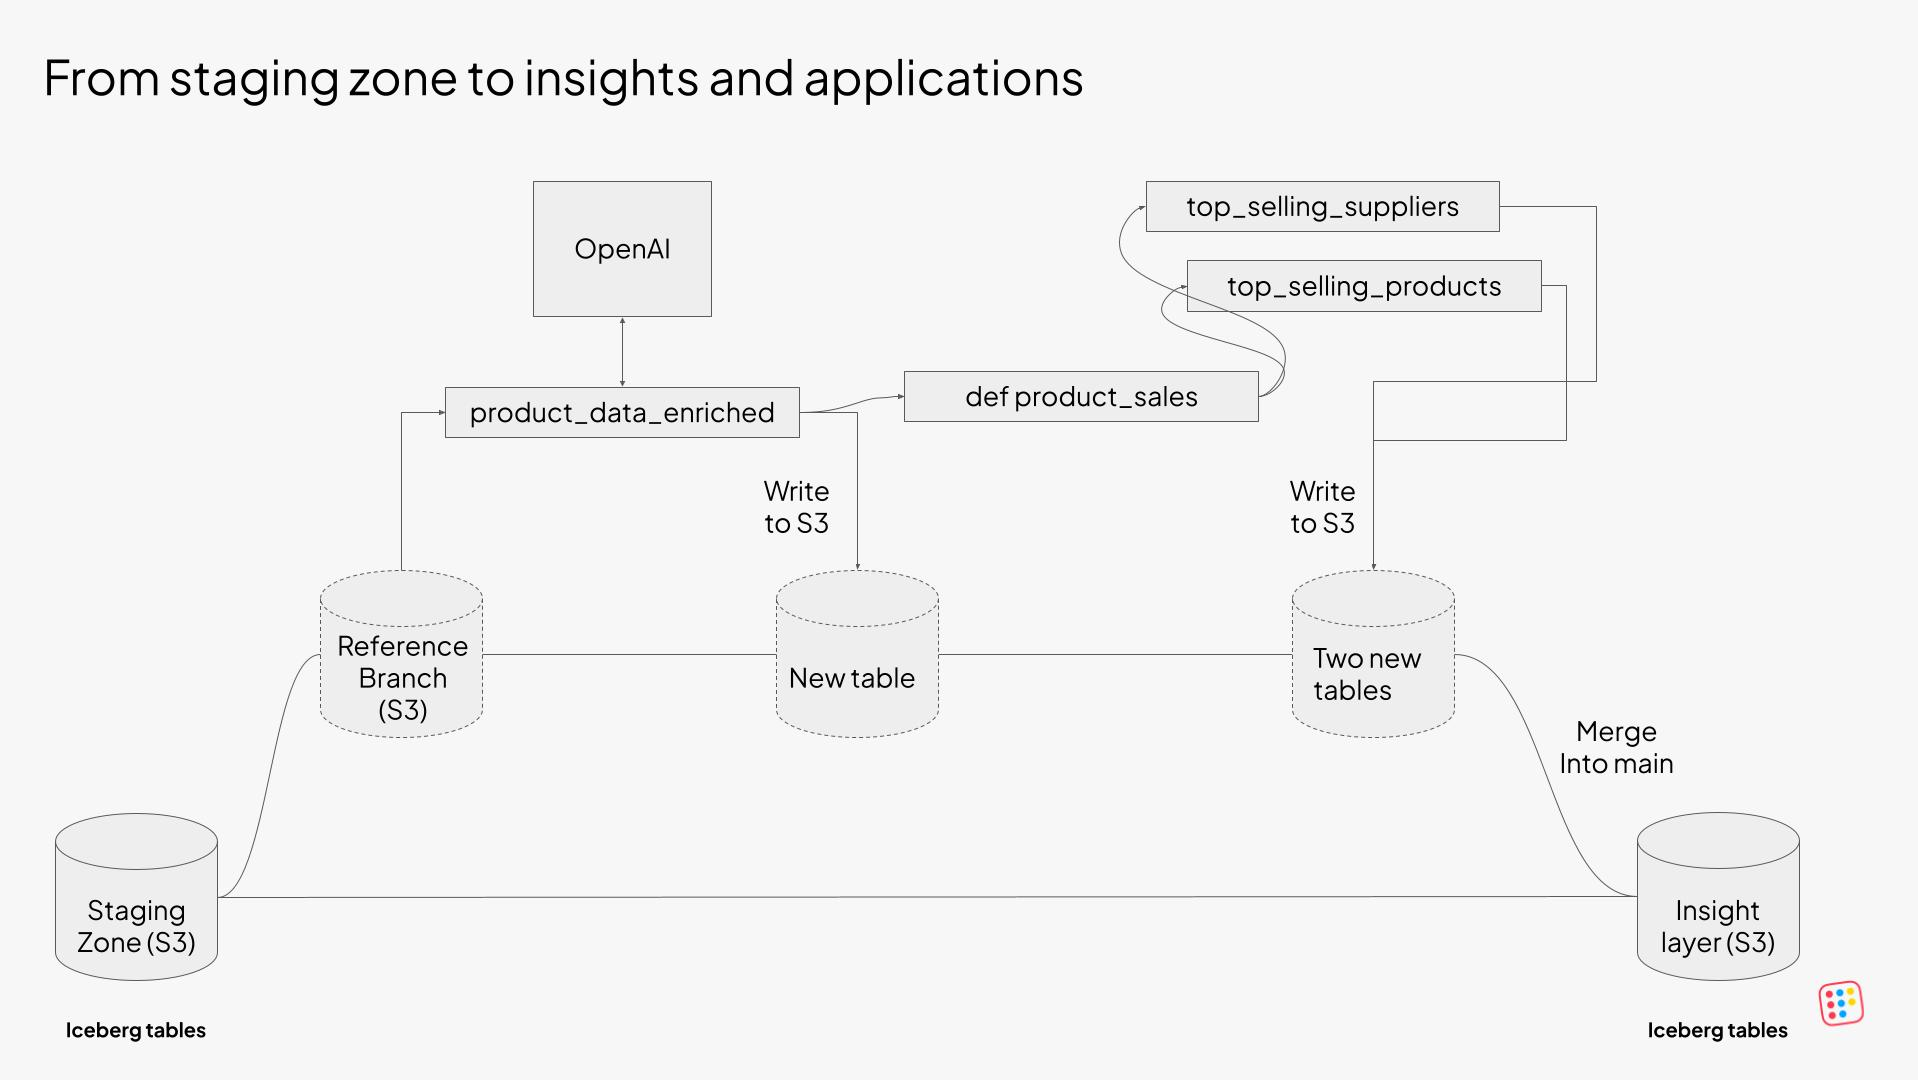
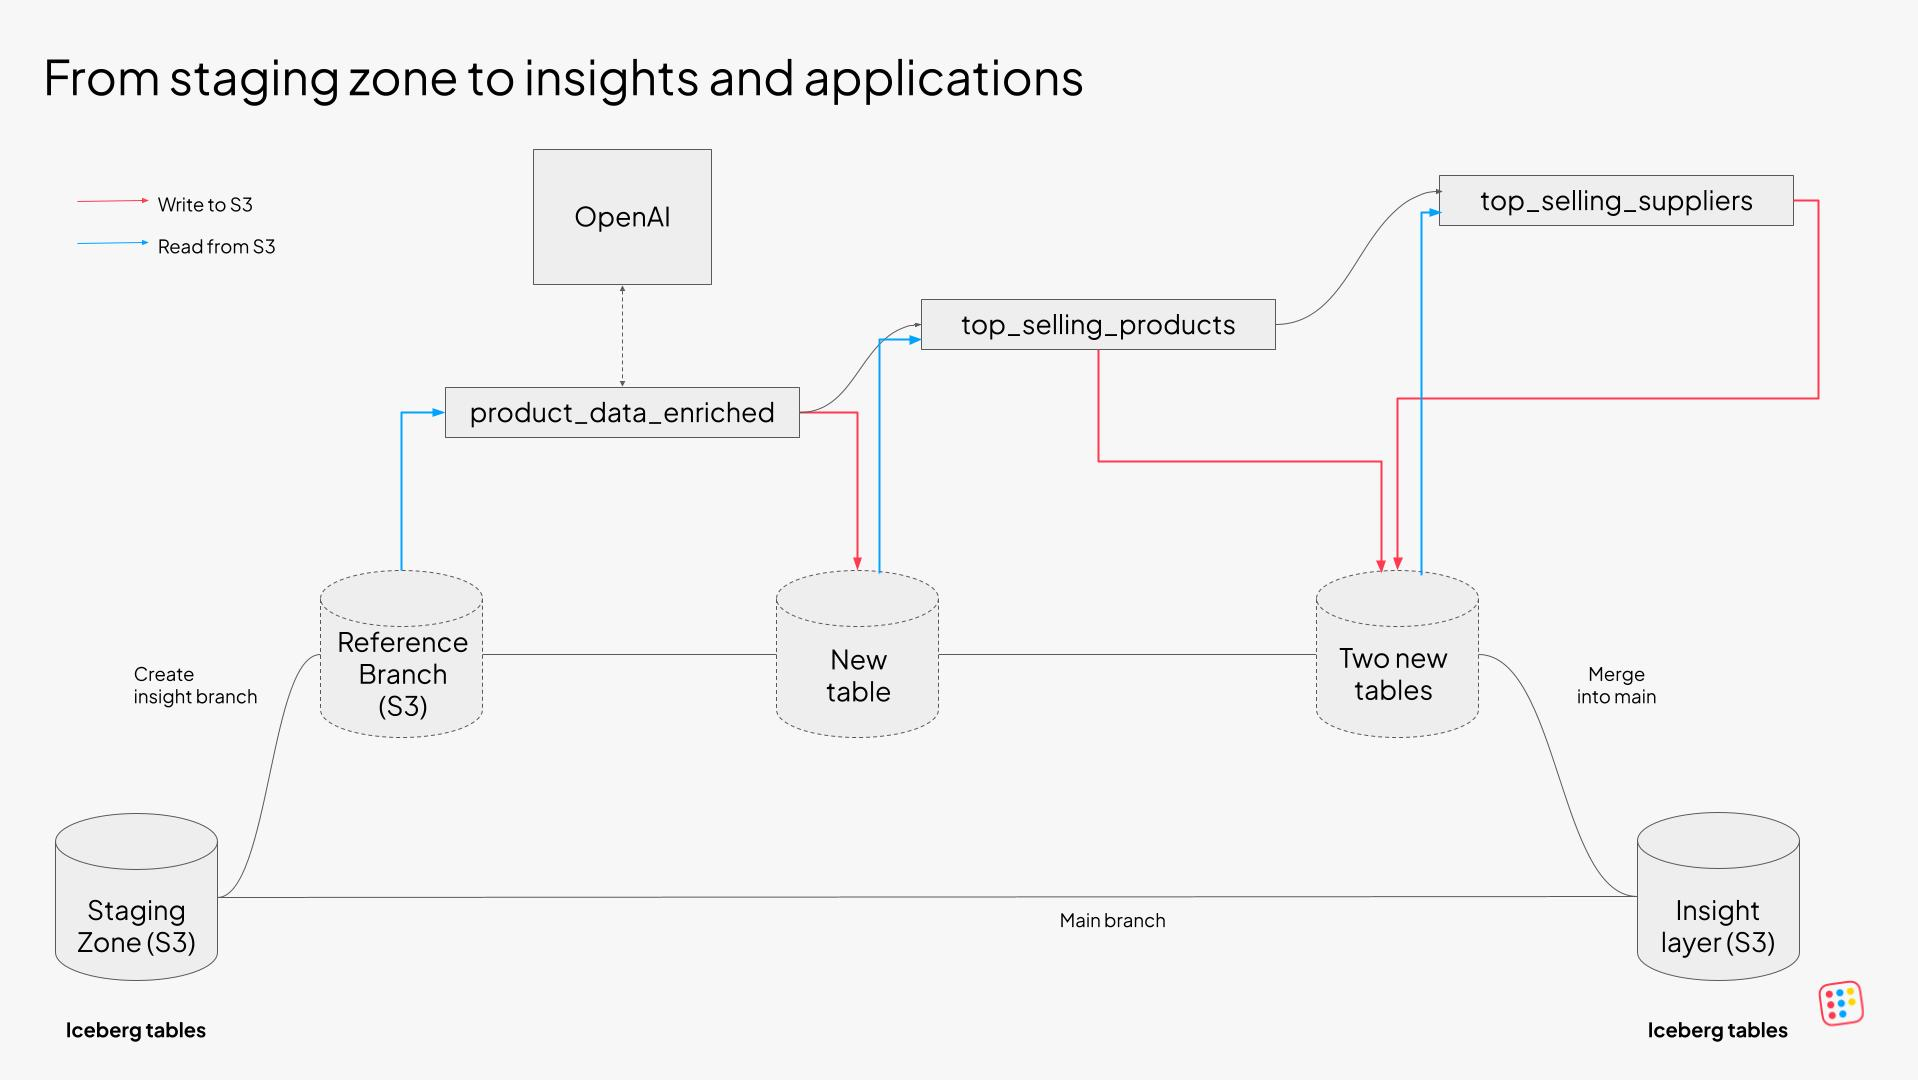
adde transformation pipeline and made the README better

diff --git a/src/end_to_end_flow.py b/src/end_to_end_flow.py
@@ -4,10 +4,10 @@ import re
 from data_quality_tests import are_there_nulls, expect_column_values_to_be_unique
 
 
-def get_import_branch_name():
+def get_import_branch_name(branch_name: str):
     """Generate a unique branch name with timestamp."""
     timestamp = datetime.datetime.now().isoformat(timespec='seconds').replace(":", "_")
-    return f"ciro.zilliant_upload_{timestamp}"
+    return f"{branch_name}_{timestamp}"
 
 
 def extract_table_name(filename):
@@ -80,7 +80,8 @@ def from_raw_to_staging(
 
     """
     # Create a raw import branch with a timestamp in the name
-    raw_import_branch = get_import_branch_name()
+
+    raw_import_branch = get_import_branch_name(branch_name='ciro.zilliant_upload')
     bpln_client.create_branch(branch=raw_import_branch, from_ref='main')
     print(f"✅ Branch '{raw_import_branch}' created.")
 
@@ -139,7 +140,7 @@ def from_staging_to_applications(
         namespace: str,
 ):
     """
-    Runs the application pipeline from staging using Bauplan.
+    Runs the transformation pipeline from staging to the insight layer using Bauplan.
     Executes the pipeline located in pipeline_folder under the specified namespace,
     prints the resulting job state, and logs any errors encountered during execution.
 
@@ -153,13 +154,27 @@ def from_staging_to_applications(
 
     """
     try:
-        run_state = bpln_client.run(
-            project_dir=pipeline_folder,
-            namespace=namespace,
-        )
-        print(f'This is the result for {run_state.job_id}: {run_state}')
+        insight_branch = get_import_branch_name(branch_name='ciro.zilliant_insight_layer')
+        bpln_client.create_branch(branch=insight_branch, from_ref='main')
+        print(f"✅ Branch '{insight_branch}' created.")
     except bauplan.errors.BauplanError as e:
-        print(f'Something went wrong while running the pipeline: {e}')
+        print(f'Something went wrong while creting the transformation branch: {e}')
+    # run the transformation pipeline for the insight layer
+    run_state = bpln_client.run(
+        project_dir=pipeline_folder,
+        ref=insight_branch,
+        namespace=namespace,
+    )
+    print(f'This is the result for {run_state.job_id}: {run_state}')
+    if run_state.job_status.lower() == 'failed':
+        raise Exception(f"Pipeline {run_state.job_id} run failed: {run_state.job_status}")
+
+    # merge the branch of the insight layer into the main branch
+    try:
+        bpln_client.merge_branch(source_ref=insight_branch, into_branch='main')
+        print(f"✅ Branch '{insight_branch}' merged into main.")
+    except bauplan.errors.BauplanError as e:
+        print(f'🔴Error in branch {insight_branch} into main')
 
 
 def main():

diff --git a/src/transformation_pipeline/models.py b/src/transformation_pipeline/models.py
@@ -50,9 +50,9 @@ def product_data_enriched(
     return data.append_column('llm_tags', [llm_tags])
 
 
-@bauplan.model()
+@bauplan.model(materialization_strategy='REPLACE')
 @bauplan.python('3.11', pip={'duckdb': '1.2.0'})
-def product_sales(
+def top_selling_products(
         transaction_line_item=bauplan.Model('zilliant.transaction_line_item'),
         product_data=bauplan.Model('product_data_enriched')
 ):
@@ -83,35 +83,6 @@ def product_sales(
         p.product_name, 
         p.sku, 
         p.category_name
-    """
-    ).arrow()
-
-    return results
-
-
-@bauplan.model(materialization_strategy='REPLACE')
-@bauplan.python('3.11', pip={'duckdb': '1.2.0'})
-def top_selling_products(
-        product_sales=bauplan.Model('zilliant.product_sales')
-):
-    """
-    Computes the total revenue per product and order the data in descending order by total revenue.
-
-    Output Table:
-    | product_name   | sku         | category_name   | total_units_sold | total_revenue |
-    |----------------|-------------|-----------------|------------------|---------------|
-    | <product name>| <sku>       | <category>      | <number>         | <number>      |
-    """
-    import duckdb
-
-    results = duckdb.sql("""
-     SELECT 
-        product_name,
-        sku,
-        category_name,
-        total_units_sold,
-        total_revenue
-    FROM product_sales
     ORDER BY total_revenue DESC
     """
     ).arrow()
@@ -122,7 +93,7 @@ def top_selling_products(
 @bauplan.model(materialization_strategy='REPLACE')
 @bauplan.python('3.11', pip={'duckdb': '1.2.0'})
 def top_selling_suppliers(
-        product_sales=bauplan.Model('zilliant.product_sales'),
+        top_selling_products=bauplan.Model('top_selling_products'),
         supplier_sku_lookup=bauplan.Model('zilliant.supplier_sku_lookup')
 ):
     """
@@ -142,7 +113,7 @@ def top_selling_suppliers(
      SELECT
         s.supplier_name,
         SUM(ps.total_revenue) AS total_supplier_revenue
-    FROM product_sales ps
+    FROM top_selling_products ps
     JOIN supplier_sku_lookup s ON ps.sku = s.sku
     GROUP BY s.supplier_name
     ORDER BY total_supplier_revenue DESC

diff --git a/README.md b/README.md
@@ -19,31 +19,28 @@ This project is a bauplan implementation of a high level architecture provided b
   - Would like to get this to s3 + iceberg
 
 - Insights layer
-  - DBT layer which executes specific business logic to identify opportunities
+  - dbt layer which executes specific business logic to identify opportunities
 
-  
-### Bauplan implementation 
-Bauplan can significantly simplify the proposed architecture by using branches and Iceberg tables on S3. 
+### Bauplan implementation  
+The proposed architecture can be significantly simplified by using simple serverless functions over branches with Iceberg tables on S3. 
 
 **- Landing zone (S3)** - Dump all the files in S3 - this zone seems at firs glance outside the scope of Bauplan.
 
-**- Raw Zone(S3) + Staging Zone (S3).** These two zones can mapped onto the concept of branches which simplifies significantly the design, maintenance and debug process. 
-The current implementation looks like this:
-  - Open an import branch in the Catalog on S3.
-  - Create tables and import data as Iceberg Tables into the import branch.
-  - Run data quality test
-  - If they go well:
-      - Merge the import branch into main
-  - else:
-      - Raise an exception and keep the import branch open for debug.
-- The serving layer may the same as the Staging as all the tables in the staging layer can be queried with any query engine that speaks Iceberg (which include Bauplan itself).
-
-**- Insight layer**
-- We prepared a transformation pipeline (see below for the details) - the business logic of this pipeline is arbitrary, nothing hinges on it. Stephen will provide the specifics of the pipeline he wants to built. 
+**- Raw Zone(S3) + Staging Zone (S3).** Mapping these two zones onto the concept of data branches simplifies significantly the design, and make debug easier. 
+- The Raw Zone becomes an import branch
+- The Staging Zone is created by a merging the import branch into main
+- the ref import branch remains available for debug and observability
+- rolling back is always possible because the platform provides automatic versioning upon commits  
 
 
+- **The Serving layer** is the same as the Staging Zone, since all the Staging tables can be queried directly with any query engine that speaks Iceberg (which include Bauplan itself).
+
+- **The Insight layer**
+- We prepared a transformation pipeline (see below for the details) - the business logic of this pipeline is arbitrary, nothing hinges on it. Stephen will provide the specifics of the pipeline he wants to build. 
+- Note - If the team at Zilliant is married to dbt we can compile against our runner and keep the code in dbt. 
+
+# Run the project 
 ## Setup
-
 ### Python environment
 To run the project, you need to have `Python >=3.10` installed. We recommend using a virtual environment to manage dependencies:
 
@@ -54,7 +51,6 @@ pip install -r requirements.txt
 ```
 
 ### Bauplan
-
 * [Join](https://www.bauplanlabs.com/#join) the bauplan sandbox, sign in, create your username and API key.
 * Complete do the 3-min [tutorial](https://docs.bauplanlabs.com/en/latest/tutorial/index.html) to get familiar with the platform.
 * When you gain access, public datasets (including the one used in this project) will be available for you to start building pipelines.
@@ -62,14 +58,11 @@ pip install -r requirements.txt
 ## OpenAI
 * Sign up on OpenAI to get your API key — you’re free to experiment with different LLMs by replacing the LLM utility code in the pipeline.
 * Once you have an OpenAI api key, you can add it as a secret to your bauplan project. Open your terminal and run the following command replacing the value with your openAI token - This will allow bauplan to connect OpenAI securely:
-
 ```bash
 cd src/transformation_pipeline
 bauplan parameter set --name openai_api_key --value aaa --type secret
 ```
-
 You can inspect the file `bauplan_project.yml` in the folder `src/transformation_pipeline` and you will see that a new parameter can be found:
-
 ```yaml
 parameters:
     openai_api_key:
@@ -77,34 +70,57 @@ parameters:
         default: kUg6q4141413...
         key: awskms:///arn:aws:kms:us-...
 ```
-
-## Run the project
-
+## Run it
 ```bash
 cd src 
 python end_to_end_flow.py
 ```
+The script executes the entire data pipeline (~150 lines of Python) from start to finish. Let’s break it down step by step.
 
-## What the hell just happened?
-The script you just ran takes care of the entire flow which looks like this:
-![Zilliant flow.jpg](src%2Fimg%2FZilliant%20flow.jpg)
-![Zilliant flow (1).jpg](src%2Fimg%2FZilliant%20flow%20%281%29.jpg)
+### 🚀 High-Level Overview
+The process can be divided into **two main stages**:
+1. **Data Ingestion & Validation** → From the raw zone to the staging zone
+2. **Data Transformation** → from the staging zone to the insight/application layer
 
-Whereas this looks very complex, we can do this with just ~150 lines of no-nonsense Python. 
-The first step from landing to staging is done in the function `from_raw_to_staging` in the file `end_to_end_flow.py`. 
-The branches allow to implement the passage from Raw to Staging as a Write-Audit-Publish workflow which ensures that data quality is easy to enforce while constructing the artifacts that downstream processes will rely upon. 
+### 🔍 Step-by-Step Breakdown
+### **1⃣ Data Ingestion & Validation**
+- **The ingestion logic** is defined in the function `from_raw_to_staging` in the file `end_to_end_flow.py`
+    - **Imports raw files** into the system (S3).
+    - **Convert files to Iceberg tables** in a temporary import branch.
+    - **Run automated data quality tests** using `data_quality_tests.py`.
+    - **Validation check:**
+        - ✅ If tests **pass**, the data is merged into the **staging zone**.
+        - ❌ If tests **fail**, the branch remains open for debugging.
+      
+<img src="src/img/Zilliant flow.jpg" alt="Zilliant flow.jpg" width="1000">
 
-The second step is done in the function `from_staging_to_applications` and runs a transformation pipeline with bauplan serverless runtime. The code of the pipeline can be found in the file `transformation_pipeline/models.py`.
-This specific semantics of this pipeline has been implemented in the spirit of providing something that might look reasonable as a transformation pipeline. The specific business logic will depend on the exact use case that the team at Zillant plans on supporting.  
-In this pipeline, we showcase how easy it is to call an external API - in this case OpenAI - and save the results back into the datalake in an Iceberg Table.  
+### **2⃣ Data Transformation**
+- Once data is staged, it runs through the **transformation pipeline** using Bauplan.
+- The transformation logic is defined in the file `transformation_pipeline/models.py`.
+- The pipeline enriches the data and creates mart tables that can be visualized as dashboards.
+- Showcase: the pipeline calls **OpenAI's API** for data enrichment - We ask `gpt-4` to create category tags from the products from the product descriptions and append them as a new column to the table `product_data`.
+- The output is stored as **new tables** in the insights layer: `product_data_enriched` , `top_selling_products` and `top_selling_suppliers`.
 
-The final outcome of running the end-to-end pipeline is that we will have eight new tables in our data lake: 5 from the import phase and three from the transformation pipiline. 
-To check the new tables simply run this command in your terminal:
 
+<img src="src/img/Zilliant flow (1).jpg" alt="Zilliant flow (1).jpg" width="1000">
+
+
+### 📊 What Do We Get at the End?
+By the end of the process, we have **eight new tables** in the data lake:
+- **Imported tables:**
+    - `zilliant.account`
+    - `zilliant.product_category`
+    - `zilliant.product_data`
+    - `zilliant.supplier_sku_lookup`
+    - `zilliant.transaction_line_item`
+- **Transformed tables:**
+    - `zilliant.product_data_enriched`
+    - `zilliant.top_selling_products`
+    - `zilliant.top_selling_suppliers`
+You can verify the tables by running:
 ```bash
 bauplan table --namespace zilliant
 ```
-
 To explore the schema of the new tables run these commands in your terminal:
 ```bash
 bauplan table get zilliant.account
@@ -116,29 +132,26 @@ bauplan table get zilliant.top_selling_products
 bauplan table get zilliant.top_selling_suppliers
 bauplan table get zilliant.transaction_line_item
 ```
-If you want to query one of the final tables produced by the pipeline, you can use the `query` command from bauplan:
 
+### 🔎 Exploring and Querying Data
+If you want to explore the final datasets, simply run:
 ```bash
+bauplan query "SELECT * FROM zilliant.product_data_enriched WHERE category_name == 'Retail'"
 bauplan query "SELECT * FROM zilliant.top_selling_suppliers"
-```
 
-We will be able to implement web-based interfaces to query the data, as well as interoperate with other query engines (e.g. Snowflake).   
+```
+This pipeline sets the foundation for **web-based dashboards**, **integration with Snowflake**, and **other analytics tools**.
 
 ### Running the transformation pipeline with bauplan interactively
-
 To run the pipeline - i.e. the DAG going from the table imported to the final marts -- you just need to create a [data branch](https://docs.bauplanlabs.com/en/latest/concepts/branches.html).
-
 ```bash
 cd src/transformation_pipeline
 bauplan branch create <YOUR_USERNAME>.zilliant_dag
 bauplan branch checkout <YOUR_USERNAME>.zilliant_dag
 ```
-
 You can now run the DAG:
-
 ```bash
 bauplan run
 ```
-
 You will notice that Bauplan stream back data in real-time, so every print statement you will be visualized in your terminal.
 
